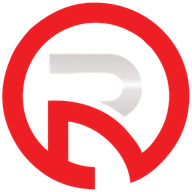
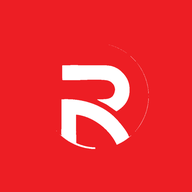
Иконка сайта и поиск по латинице «rahman ata»
Иконка. Была красным кольцом с белой «R» внутри и прозрачным фоном: на
тёмной вкладке браузера читалась, а в выдаче Google, где иконку рисуют
на светлом кружке, белая буква на белом исчезала — оставался «красный
бублик». Теперь крупная белая «R» (та же, из фирменного логотипа) на
сплошном фирменном красном #ED1E24: собственный непрозрачный фон делает
её одинаковой на любой подложке, кольцо стало самим фоном, поэтому буква
занимает всю иконку и различима в 16 пикселях. Поля 15% — под круглую
обрезку, которую Google применяет в выдаче. Размеры отрисованы каждый
отдельно, а не сжаты из одного большого.

Поиск. По «рахман ата» сайт находился, по «rahman ata» — нет, потому что
латиницы не было ни в одном видимом месте: только в meta keywords
(Google не учитывает этот тег с 2009 года) и в микроразметке. Добавлено:
- видимая строка «Rahman Ata Sport Club» в hero — прятать её ради поиска
  нельзя, скрытые ключевики Google считает спамом
- латинское написание в заголовке вкладки и описании; заголовок Google
  берёт из JS (он его выполняет), поэтому правка только в index.html
  ничего бы не изменила — видно по текущей выдаче
- в микроразметку дописываются телефон, адрес и соцсети из живого конфига
  Taplink, а не дублируются в HTML руками: вторая копия разошлась бы с
  настоящей при первой же правке в админке

Попутно: в <h1> название и подзаголовок стояли без пробела между собой,
из-за чего в сниппете Google склеивалось «Рахман АтаСпорт Клубу».

diff --git a/public/index.html b/public/index.html
@@ -15,8 +15,14 @@
       CRM-страницы не индексируются (см. robots.txt) и на подпись вкладки браузера
       это не влияет — сотрудникам достаточно логотипа во вкладке.
     -->
-    <meta name="description" content="Рахман Ата — спортивный клуб: ММА, бокс, дзюдо, вольная борьба, грэпплинг, бразильское джиу-джитсу, кроссфит. Профессиональные тренеры, группы для всех возрастов. Запись на пробную тренировку." />
-    <meta name="keywords" content="Рахман Ата, Rahman Ata, rahmanata, спортивный клуб, единоборства, ММА, бокс, дзюдо, вольная борьба, грэпплинг, бразильское джиу-джитсу, кроссфит" />
+    <!--
+      Название клуба в описании стоит в обоих написаниях намеренно: по «рахман ата»
+      сайт находился, а по «rahman ata» — нет, потому что латиницы в видимом тексте
+      не было нигде. Meta keywords на это не влияет вовсе (Google не учитывает этот
+      тег с 2009 года) — работает описание, заголовок и текст на самой странице.
+    -->
+    <meta name="description" content="Рахман Ата (Rahman Ata) — спортивный клуб в Оше: ММА, бокс, дзюдо, вольная борьба, грэпплинг, бразильское джиу-джитсу, кроссфит. Профессиональные тренеры, группы для всех возрастов. Запись на пробную тренировку." />
+    <meta name="keywords" content="Рахман Ата, Rahman Ata, rahmanata, Rahman Ata Sport Club, спортивный клуб Ош, единоборства, ММА, бокс, дзюдо, вольная борьба, грэпплинг, бразильское джиу-джитсу, кроссфит" />
     <meta name="robots" content="index, follow" />
     <meta name="apple-mobile-web-app-capable" content="yes" />
     <meta name="apple-mobile-web-app-status-bar-style" content="default" />
@@ -28,7 +34,7 @@
     <!-- Open Graph / превью в WhatsApp, Telegram, Instagram, Facebook -->
     <meta property="og:type" content="website" />
     <meta property="og:site_name" content="Рахман Ата" />
-    <meta property="og:title" content="Рахман Ата — спортивный клуб" />
+    <meta property="og:title" content="Рахман Ата — Спорт Клуб | Rahman Ata, Ош" />
     <meta property="og:description" content="ММА, бокс, дзюдо, вольная борьба, грэпплинг, БЖЖ, кроссфит. Профессиональные тренеры, группы для всех возрастов." />
     <meta property="og:image" content="https://rahmanata.kg/rahman.png" />
     <meta property="og:url" content="https://rahmanata.kg/" />
@@ -36,7 +42,7 @@
 
     <!-- Twitter/X card — тот же принцип, что и Open Graph выше -->
     <meta name="twitter:card" content="summary" />
-    <meta name="twitter:title" content="Рахман Ата — спортивный клуб" />
+    <meta name="twitter:title" content="Рахман Ата — Спорт Клуб | Rahman Ata, Ош" />
     <meta name="twitter:description" content="ММА, бокс, дзюдо, вольная борьба, грэпплинг, БЖЖ, кроссфит." />
     <meta name="twitter:image" content="https://rahmanata.kg/rahman.png" />
 
@@ -44,14 +50,17 @@
     <link rel="preconnect" href="https://fonts.gstatic.com" crossorigin />
     <link href="https://fonts.googleapis.com/css2?family=Plus+Jakarta+Sans:ital,wght@0,400;0,500;0,600;0,700;1,400&display=swap" rel="stylesheet" />
     <!--
-      Иконка сайта. В выдаче Google рядом со ссылкой стоял глобус: по адресу
-      /favicon.ico лежал стандартный логотип React из шаблона, а rel="icon"
-      указывал на логотип 1280x1280 без объявленных размеров.
+      Иконка сайта: крупная белая «R» из фирменного логотипа на сплошном
+      фирменном красном.
 
-      Здесь эмблема клуба (красное кольцо с «R») без подписи «РАХМАН АТА» —
-      в 16 пикселях подпись превращается в пятно. Размеры кратны 48, как
-      рекомендует Google, и объявлены явно, чтобы поисковику не приходилось
-      гадать, какой файл брать.
+      Почему именно так, а не обрезок логотипа: раньше иконкой было красное
+      кольцо с белой «R» внутри и прозрачным фоном. На тёмной вкладке браузера
+      она читалась, а в выдаче Google, где иконку рисуют на светлом кружке,
+      белая буква на белом просто исчезала — оставался «красный бублик».
+      Собственный непрозрачный фон делает иконку одинаково читаемой на любой
+      подложке, а кольцо превратилось в сам фон — так «R» занимает всю иконку
+      и различима даже в 16 пикселях. Поля 15% оставлены под круглую обрезку,
+      которую Google применяет к иконкам в выдаче.
     -->
     <link rel="icon" href="%PUBLIC_URL%/favicon.ico" sizes="any" />
     <link rel="icon" type="image/png" sizes="48x48" href="%PUBLIC_URL%/favicon-48.png" />
@@ -59,16 +68,30 @@
     <link rel="icon" type="image/png" sizes="192x192" href="%PUBLIC_URL%/icon-192.png" />
     <link rel="apple-touch-icon" sizes="180x180" href="%PUBLIC_URL%/apple-touch-icon.png" />
     <link rel="manifest" href="%PUBLIC_URL%/manifest.json" />
-    <title>Рахман Ата — спортивный клуб</title>
+    <title>Рахман Ата — Спорт Клуб | Rahman Ata, Ош</title>
 
-    <!-- Structured data: помогает Google понять, что это спортивный клуб,
-         и показать расширенный сниппет (адрес, соцсети) в выдаче. -->
+    <!--
+      Structured data: помогает Google понять, что это спортивный клуб, и
+      собрать карточку организации — а в карточке бренд находится по любому
+      написанию названия, включая латиницу и опечатки.
+
+      Здесь только то, что не меняется (название, написания, адрес страницы,
+      виды спорта). Телефон, адрес и соцсети редактируются в админке Taplink,
+      поэтому дублировать их сюда нельзя — разъедутся. Их дописывает в этот же
+      блок TaplinkPage из живого конфига (см. useEffect с ld+json там).
+    -->
     <script type="application/ld+json">
       {
         "@context": "https://schema.org",
         "@type": "SportsActivityLocation",
+        "@id": "https://rahmanata.kg/#organization",
         "name": "Рахман Ата",
-        "alternateName": ["Rahman Ata", "rahmanata"],
+        "alternateName": [
+          "Rahman Ata",
+          "Rahman Ata Sport Club",
+          "Рахман Ата Спорт Клуб",
+          "rahmanata"
+        ],
         "url": "https://rahmanata.kg/",
         "image": "https://rahmanata.kg/rahman.png",
         "logo": "https://rahmanata.kg/icon-512.png",

diff --git a/src/features/taplink/TaplinkPage.js b/src/features/taplink/TaplinkPage.js
@@ -6,6 +6,17 @@ import { scheduleFromApiResponse, groupScheduleRows, WEEKDAYS } from '../sports-
 import Select from '../../shared/ui/Select';
 
 /**
+ * Название клуба латиницей.
+ *
+ * Не берётся из редактируемого конфига намеренно: это транслитерация имени
+ * бренда, а не редактируемый контент. Нужна, чтобы сайт находился по запросу
+ * «rahman ata» — раньше латиницы не было ни в заголовке, ни в видимом тексте,
+ * и по латинскому написанию поиск сайт не показывал.
+ */
+const LATIN_NAME = 'Rahman Ata';
+const LATIN_TAGLINE = 'Rahman Ata Sport Club';
+
+/**
  * Живой график набора тренеров (CRM) — общая логика для формы записи и карточек секции/тренера.
  * Возрастная категория приходит прямо из графика тренера (задаётся в CRM «Настройка графика»),
  * а не отдельной картой на стороне Taplink — один источник истины, разъехаться не может.
@@ -972,21 +983,76 @@ const TaplinkPage = () => {
    * в мессенджерах) и для самого первого кадра до гидратации; здесь же —
    * уточнение для тех, кто JS выполняет (Google, сам браузер), и восстановление
    * прежнего заголовка при уходе в CRM, чтобы вкладка не осталась "залипшей".
+   *
+   * Латинское написание названия добавлено намеренно: Google берёт заголовок
+   * именно отсюда (он выполняет JS), и раньше в нём не было ни одного
+   * латинского символа — поэтому по запросу «rahman ata» сайт не находился,
+   * хотя по «рахман ата» находился.
    */
   useEffect(() => {
     const prevTitle = document.title;
     const descTag = document.querySelector('meta[name="description"]');
     const prevDesc = descTag?.getAttribute('content') ?? null;
 
-    const title = hero?.title ? `${hero.title} — ${hero.subtitle || 'спортивный клуб'}` : prevTitle;
-    document.title = title;
-    if (descTag && hero?.desc) descTag.setAttribute('content', hero.desc);
+    const city = (footer?.address || '').replace(/^г\.\s*/i, '').trim();
+    const subtitle = hero?.subtitle || 'спортивный клуб';
+    const place = city ? `, ${city}` : '';
+
+    if (hero?.title) {
+      document.title = `${hero.title} — ${subtitle} | ${LATIN_NAME}${place}`;
+      if (descTag && hero.desc) {
+        descTag.setAttribute(
+          'content',
+          `${hero.title} (${LATIN_NAME}) — ${subtitle}${place}. ${hero.desc}`,
+        );
+      }
+    }
 
     return () => {
       document.title = prevTitle;
       if (descTag && prevDesc != null) descTag.setAttribute('content', prevDesc);
     };
-  }, [hero?.title, hero?.subtitle, hero?.desc]);
+  }, [hero?.title, hero?.subtitle, hero?.desc, footer?.address]);
+
+  /**
+   * Микроразметка организации: контакты дописываются в тот же блок ld+json из
+   * index.html, а не дублируются в нём руками. Телефон, адрес и соцсети
+   * редактируются в админке, и вторая их копия в статическом HTML рано или
+   * поздно разошлась бы с настоящей. Google выполняет JS, так что дописанное
+   * здесь он видит.
+   */
+  useEffect(() => {
+    const tag = document.querySelector('script[type="application/ld+json"]');
+    if (!tag) return undefined;
+    const prev = tag.textContent;
+
+    try {
+      const base = JSON.parse(prev);
+      const social = [
+        footer?.instagram && `https://instagram.com/${String(footer.instagram).replace(/^@/, '')}`,
+        footer?.tiktok && `https://tiktok.com/@${String(footer.tiktok).replace(/^@/, '')}`,
+      ].filter(Boolean);
+
+      const enriched = { ...base };
+      if (footer?.phone) enriched.telephone = footer.phone;
+      if (footer?.address) {
+        enriched.address = {
+          '@type': 'PostalAddress',
+          addressLocality: footer.address.replace(/^г\.\s*/i, '').trim(),
+          addressCountry: 'KG',
+        };
+      }
+      if (social.length) enriched.sameAs = social;
+      if (footer?.mapUrl) enriched.hasMap = footer.mapUrl;
+
+      tag.textContent = JSON.stringify(enriched, null, 2);
+    } catch {
+      // Разметку не удалось разобрать — оставляем статическую как есть,
+      // это не повод ронять страницу
+    }
+
+    return () => { tag.textContent = prev; };
+  }, [footer?.phone, footer?.address, footer?.instagram, footer?.tiktok, footer?.mapUrl]);
 
   const [activeSport,   setActiveSport]   = useState(null);
   const [activeTrainer, setActiveTrainer] = useState(null);
@@ -1074,11 +1140,19 @@ const TaplinkPage = () => {
         <div className="tp-hero__glow"  aria-hidden="true" />
         <div className="tp-hero__glow2" aria-hidden="true" />
         <div className="tp-hero__body">
+          {/* Пробел после названия обязателен: без него поисковик склеивает
+              текстовые узлы и в выдаче получалось «Рахман АтаСпорт Клуб».
+              На вёрстку не влияет — заголовок выложен колонкой через flex. */}
           <h1 className="tp-hero__title">
-            {hero.title}
+            {hero.title}{' '}
             <span className="tp-hero__sub-title">{hero.subtitle}</span>
           </h1>
           <p className="tp-hero__desc">{hero.desc}</p>
+          {/* Латинское написание названия — видимым текстом, а не скрытым:
+              спрятанные ради поиска ключевики Google считает спамом. Это
+              единственное место на странице, где бренд написан латиницей,
+              и оно же делает сайт находимым по запросу «rahman ata». */}
+          <p className="tp-hero__latin">{LATIN_TAGLINE}</p>
         </div>
       </section>
 

diff --git a/src/features/taplink/TaplinkPage.scss b/src/features/taplink/TaplinkPage.scss
@@ -247,6 +247,19 @@ $r-lg:   22px;
     margin-right: auto;
     text-align: center;
   }
+
+  // Название латиницей: тише основного заголовка, но настоящим видимым
+  // текстом — прятать его ради поиска нельзя, это спам-сигнал
+  &__latin {
+    margin: 12px 0 0;
+    font-size: 11px;
+    font-weight: 600;
+    letter-spacing: 2.5px;
+    text-transform: uppercase;
+    color: var(--text2);
+    opacity: 0.75;
+    text-align: center;
+  }
 }
 
 // When bg photo is set — force white text in any theme (overlay is always dark)
@@ -254,6 +267,7 @@ $r-lg:   22px;
   .tp-hero__title    { color: #fff; text-shadow: 0 2px 12px rgba(0,0,0,0.5); }
   .tp-hero__sub-title { color: #FF9A9A; }
   .tp-hero__desc     { color: rgba(255,255,255,0.82); }
+  .tp-hero__latin    { color: rgba(255,255,255,0.72); opacity: 1; }
 }
 
 // ─── Stats ────────────────────────────────────────────────────────────────────
